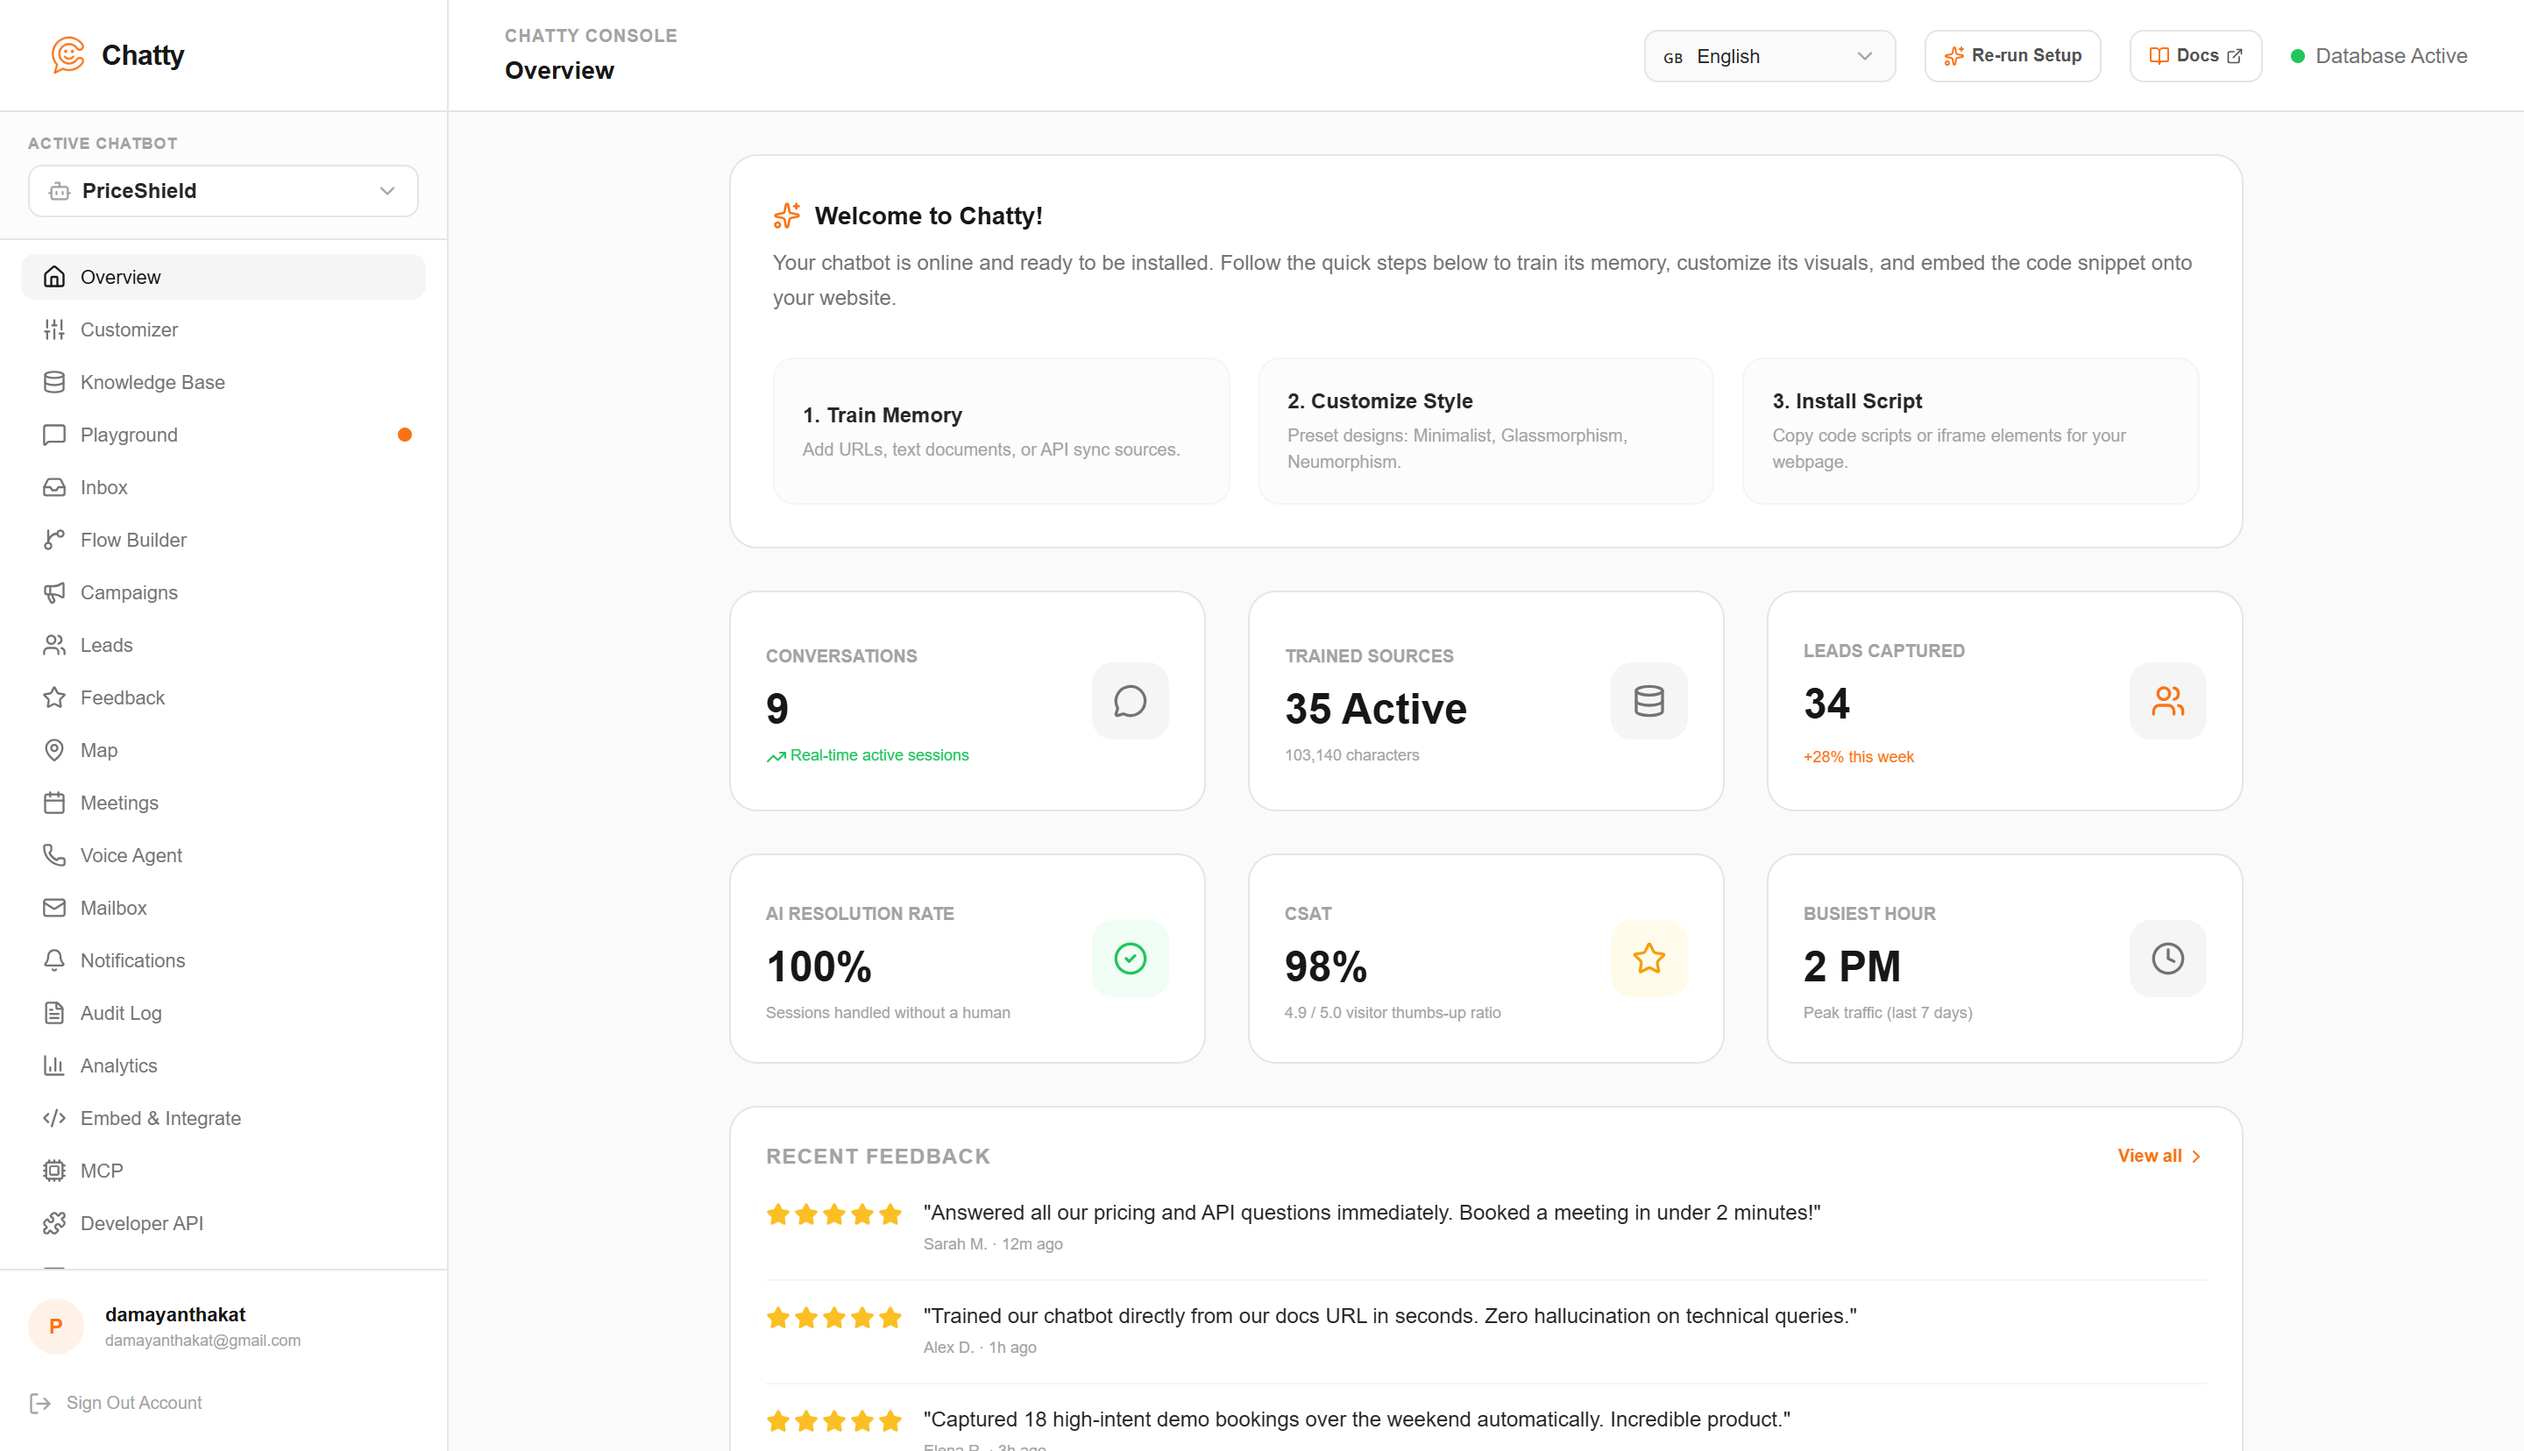
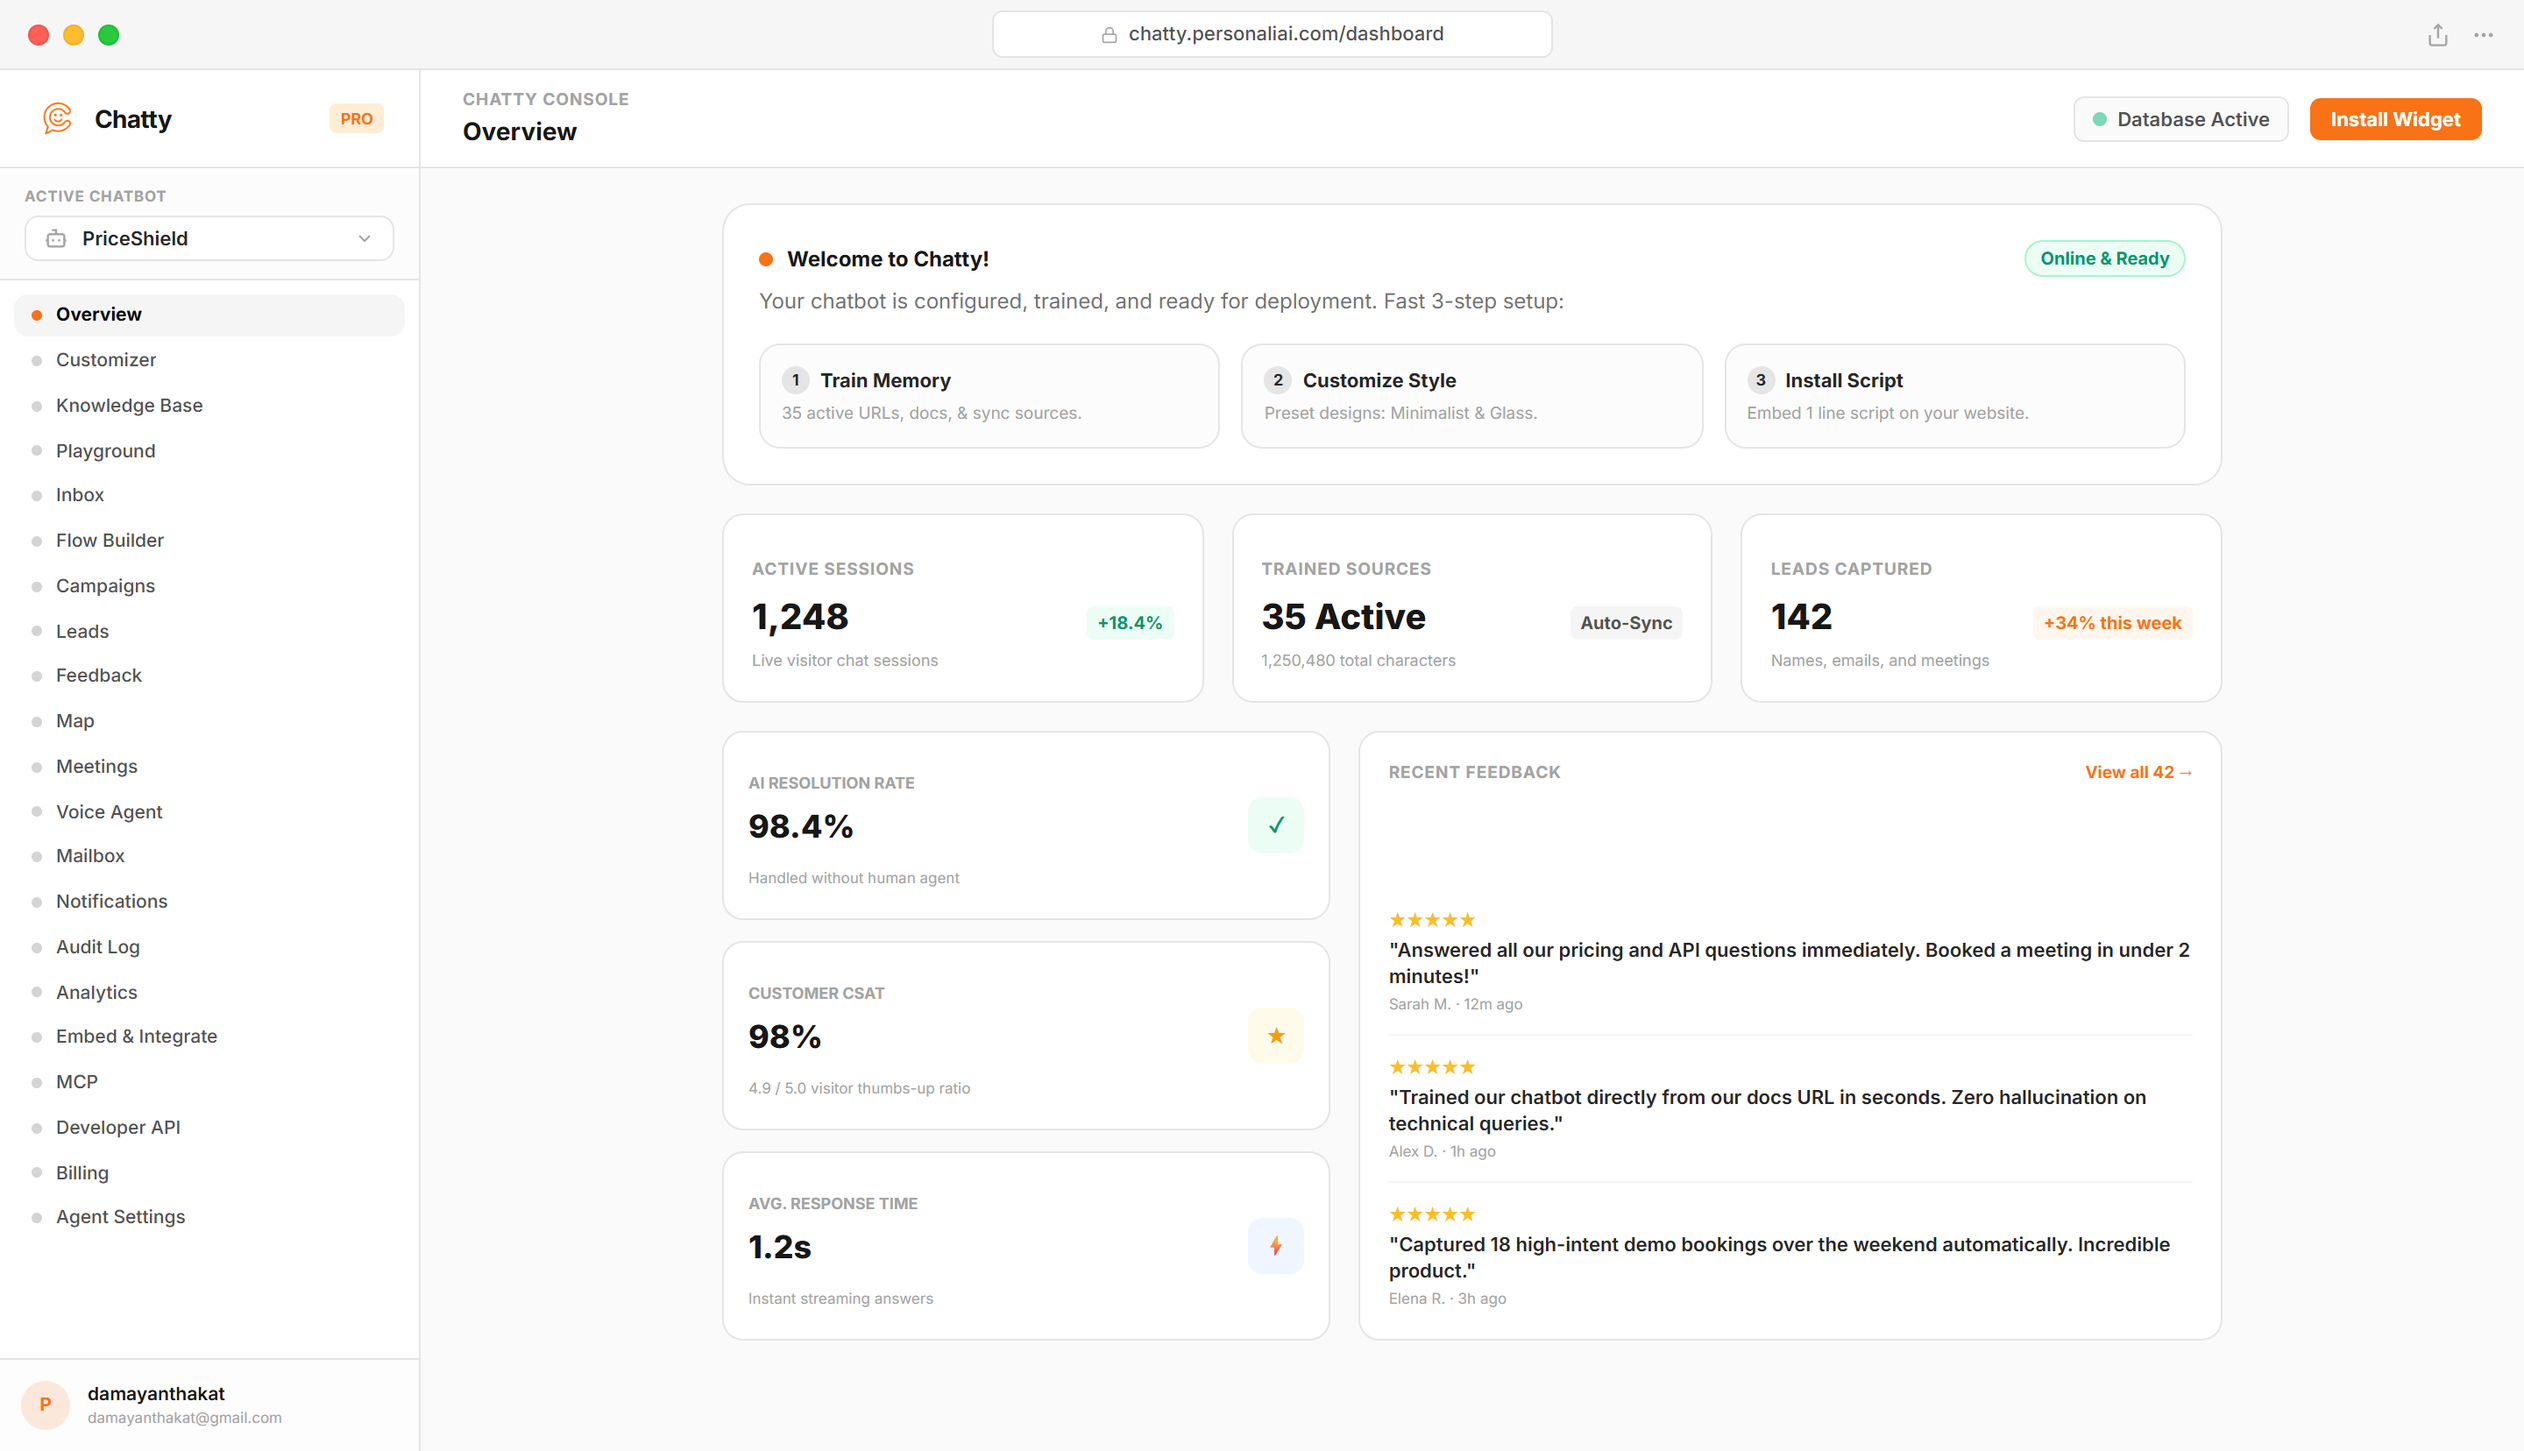
feat(landing): add Apple action bars and high-res showcase demo assets for knowledge, actions, and leads

diff --git a/frontend/src/app/page.tsx b/frontend/src/app/page.tsx
@@ -124,9 +124,33 @@ const chips: { icon: LucideIcon; title: string; desc: string; bg: string; fg: st
 ];
 
 const showcases = [
-  { kicker: "Knowledge", kickerColor: "var(--color-accent-700)", title: "Train it once. It answers like your best rep.", desc: "Point it at your website, files, and docs and it learns your product. Auto Train keeps it current daily, weekly, or monthly, in over 95 languages, without you touching a thing.", label: "Drop a knowledge-training screenshot", imageFirst: false },
-  { kicker: "Actions", kickerColor: "var(--color-accent-2-800)", title: 'Beyond Q&A — it gets things done.', desc: 'Let it use any of your apps, book meetings straight onto your calendar, and route conversations through guardrails so it stays reliable, never "ChatGPT for free."', label: "Drop an actions / integrations screenshot", imageFirst: true },
-  { kicker: "Leads & Analytics", kickerColor: "var(--color-accent-700)", title: "Every lead captured. Every chat measured.", desc: "Name, email, and phone are collected automatically and land in your Inbox alongside analytics on how visitors actually use your chatbot.", label: "Drop an analytics / inbox screenshot", imageFirst: false },
+  {
+    kicker: "Knowledge",
+    kickerColor: "var(--color-accent-700)",
+    title: "Train it once. It answers like your best rep.",
+    desc: "Point it at your website, files, and docs and it learns your product. Auto Train keeps it current daily, weekly, or monthly, in over 95 languages, without you touching a thing.",
+    image: "/showcase_knowledge.png",
+    alt: "Chatty Knowledge Base Training with 35 Sources & Auto-Sync",
+    imageFirst: false,
+  },
+  {
+    kicker: "Actions",
+    kickerColor: "var(--color-accent-2-800)",
+    title: 'Beyond Q&A — it gets things done.',
+    desc: 'Let it use any of your apps, book meetings straight onto your calendar, and route conversations through guardrails so it stays reliable, never "ChatGPT for free."',
+    image: "/showcase_actions.png",
+    alt: "Autonomous Meeting Scheduling & Calendar Integration",
+    imageFirst: true,
+  },
+  {
+    kicker: "Leads & Analytics",
+    kickerColor: "var(--color-accent-700)",
+    title: "Every lead captured. Every chat measured.",
+    desc: "Name, email, and phone are collected automatically and land in your Inbox alongside analytics on how visitors actually use your chatbot.",
+    image: "/showcase_leads_analytics.png",
+    alt: "Captured Leads CRM & Real-Time Analytics",
+    imageFirst: false,
+  },
 ];
 
 const mcpPoints = [
@@ -301,7 +325,15 @@ export default function Home() {
                 </Link>
               </div>
               <div className={`md:col-span-7 ${s.imageFirst ? "md:order-1" : ""}`}>
-                <ShowcasePlaceholder label={s.label} className="w-full aspect-[16/10] rounded-3xl" />
+                <div className="relative rounded-[20px] sm:rounded-[30px] overflow-hidden p-2 sm:p-2.5" style={{ boxShadow: "var(--shadow-lg)", background: "var(--color-surface)" }}>
+                  <Image
+                    src={s.image}
+                    alt={s.alt}
+                    width={2880}
+                    height={1800}
+                    className="w-full h-auto aspect-[16/10] object-cover rounded-[14px] sm:rounded-[22px] border border-black/5 dark:border-white/5"
+                  />
+                </div>
               </div>
             </div>
           </section>
